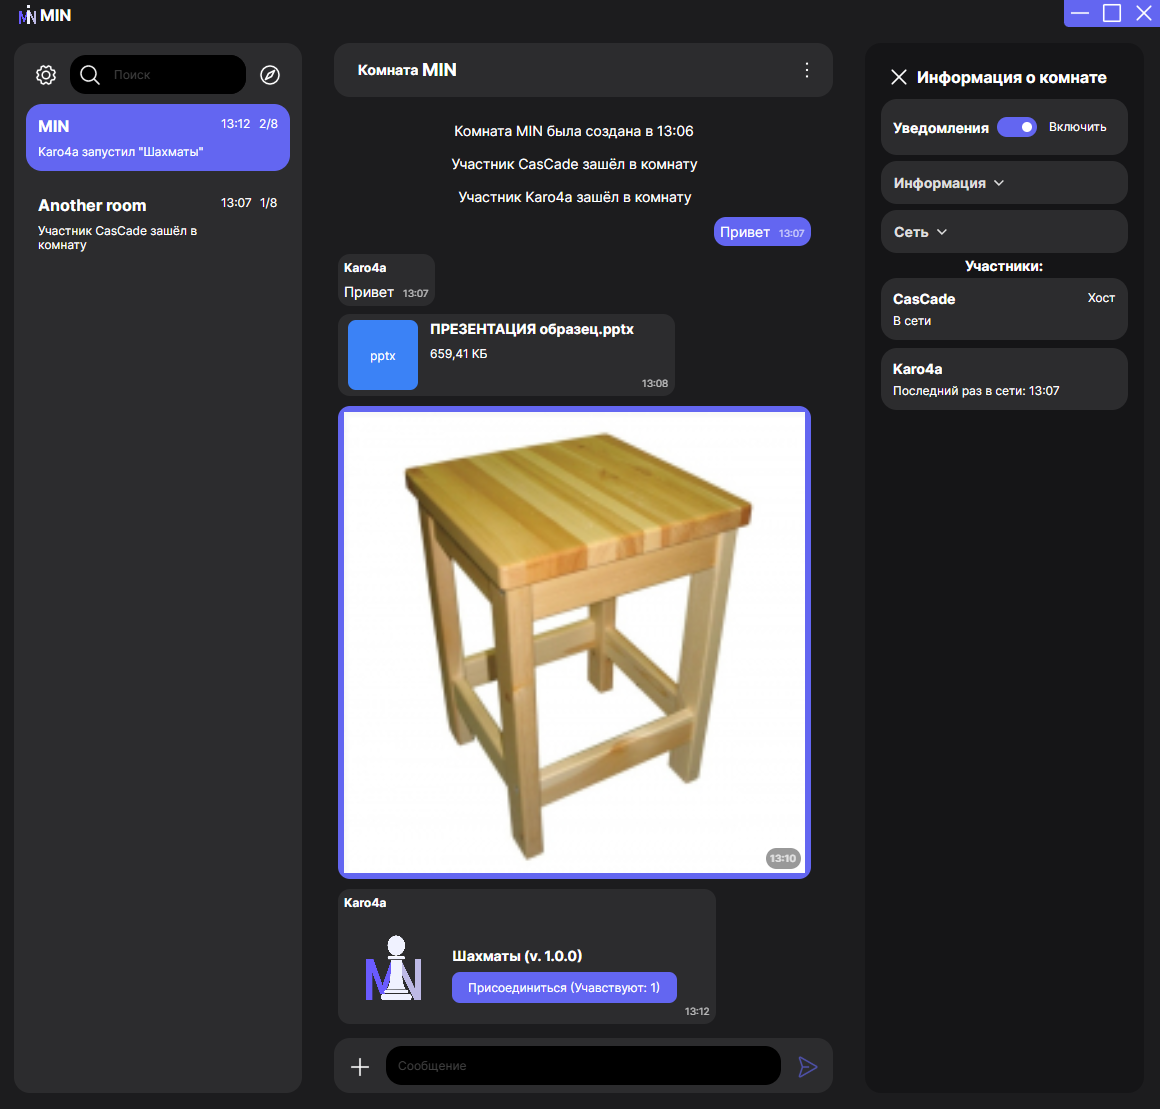
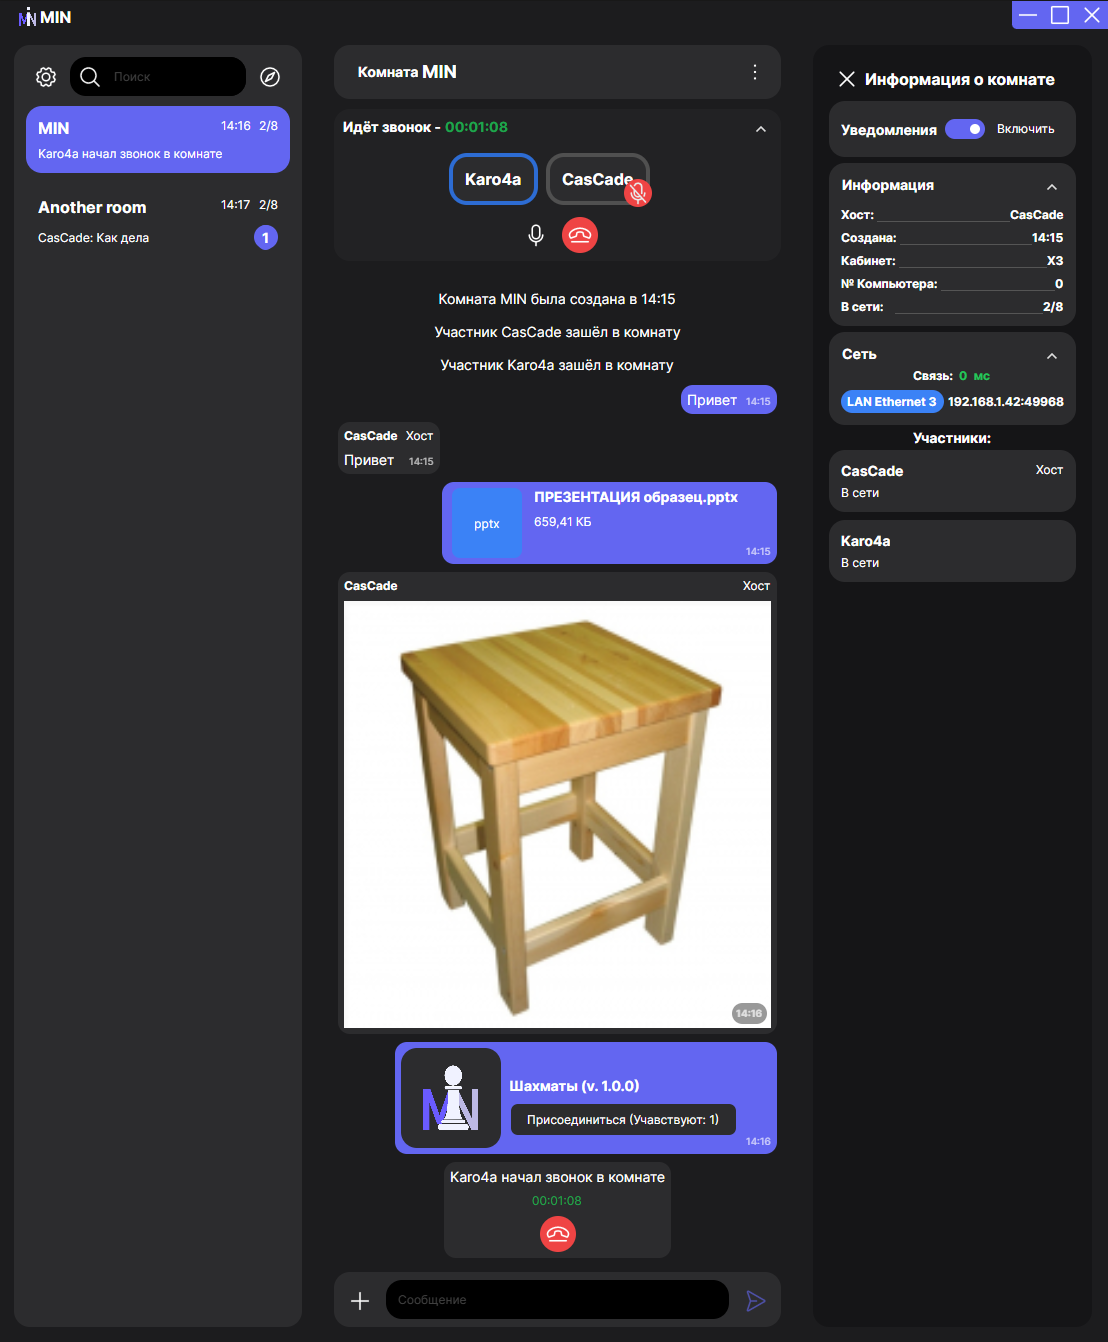
readme and bug fixes

diff --git a/Infrastructure/Chat/MIN.Chat.Services/ChatVoiceService.cs b/Infrastructure/Chat/MIN.Chat.Services/ChatVoiceService.cs
@@ -3,6 +3,7 @@ using MIN.Core.Events.Contracts.Interfaces;
 using MIN.Core.Identity.Contracts.Interfaces;
 using MIN.Core.Messaging.Contracts.Interfaces;
 using MIN.Core.Services.Contracts.Interfaces.Messaging;
+using MIN.Core.Stores.Contracts.Registries.Interfaces;
 using MIN.Voice.Events;
 using MIN.Voice.Messaging;
 using MIN.Voice.Services.Contacts.Interfaces;
@@ -14,6 +15,7 @@ public sealed class ChatVoiceService : IChatVoiceService
 {
     private readonly IVoiceCallStateService voiceCallStateService;
     private readonly IMessageRouter messageRouter;
+    private readonly IRoomConnectionRegistry registry;
     private readonly IEventBus eventBus;
     private readonly IIdentityService identityService;
 
@@ -22,11 +24,13 @@ public sealed class ChatVoiceService : IChatVoiceService
     /// </summary>
     public ChatVoiceService(IVoiceCallStateService voiceCallStateService,
         IMessageRouter messageRouter,
+        IRoomConnectionRegistry registry,
         IEventBus eventBus,
         IIdentityService identityService)
     {
         this.voiceCallStateService = voiceCallStateService;
         this.messageRouter = messageRouter;
+        this.registry = registry;
         this.eventBus = eventBus;
         this.identityService = identityService;
     }
@@ -41,6 +45,12 @@ public sealed class ChatVoiceService : IChatVoiceService
         if (voiceCallContext != null && voiceCallContext.Value.RoomId != roomId)
         {
             await LeaveCallAsync(voiceCallContext.Value.RoomId, voiceCallContext.Value.SubRoomId, cancellationToken);
+
+            if (registry.IsHosting(roomId))
+            {
+                // Костыль, но я реально хз как там исправить
+                await Task.Delay(10, cancellationToken);
+            }
         }
 
         await SendAsync(new VoiceCallStartRequestMessage(), roomId, cancellationToken);
@@ -53,6 +63,12 @@ public sealed class ChatVoiceService : IChatVoiceService
         if (voiceCallContext != null && voiceCallContext.Value.RoomId != roomId)
         {
             await LeaveCallAsync(voiceCallContext.Value.RoomId, voiceCallContext.Value.SubRoomId, cancellationToken);
+
+            if (registry.IsHosting(roomId))
+            {
+                // Костыль, но я реально хз как там исправить
+                await Task.Delay(10, cancellationToken);
+            }
         }
 
         await SendAsync(new VoiceCallJoinRequestMessage()

diff --git a/Desktop/MIN.Desktop/ViewModels/Pages/ChatViewModels/ChatViewModel.Events.cs b/Desktop/MIN.Desktop/ViewModels/Pages/ChatViewModels/ChatViewModel.Events.cs
@@ -85,7 +85,9 @@ public partial class ChatViewModel : RoutableViewModelBase
     private async Task OnVoiceCallStarted(VoiceCallStartedEvent eventMessage, CancellationToken cancellationToken)
     {
         IsVoiceChatActive = true;
+        CallDuration = TimeSpan.Zero;
         callStartedAt = DateTime.Now;
+        callTimer.Start();
         activeVoiceChatSubroomId = eventMessage.Message.SubRoomId;
         IsInVoiceChat = eventMessage.Participant.Id == localParticipant.Id;
         AddToVoiceChatParticipant(eventMessage.Participant);
@@ -97,7 +99,6 @@ public partial class ChatViewModel : RoutableViewModelBase
         VoiceChatParticipants.Clear();
         IsMuted = false;
         callTimer.Stop();
-        callTimer.Tick -= OnCallTimerTick;
         activeVoiceChatSubroomId = null;
         IsInVoiceChat = false;
         IsVoiceChatActive = false;
@@ -108,6 +109,10 @@ public partial class ChatViewModel : RoutableViewModelBase
         VoiceChatParticipants.Clear();
         callStartedAt = eventMessage.StartedAt;
         IsVoiceChatActive = eventMessage.ActiveSubRoomId != null;
+        if (IsVoiceChatActive)
+        {
+            callTimer.Start();
+        }
         activeVoiceChatSubroomId = eventMessage.ActiveSubRoomId;
         foreach (var participant in eventMessage.CallParticipants)
         {

diff --git a/Desktop/MIN.Desktop/ViewModels/Pages/SettingsSideBarViewModel.cs b/Desktop/MIN.Desktop/ViewModels/Pages/SettingsSideBarViewModel.cs
@@ -14,6 +14,7 @@ using MIN.Common.Core.Extensions;
 using MIN.Desktop.Contracts.Constants;
 using MIN.Desktop.Contracts.Enums;
 using MIN.Desktop.Contracts.Interfaces;
+using MIN.Desktop.Infrastructure.Services;
 using MIN.Desktop.Infrastructure.Validators;
 using MIN.Desktop.ViewModels.Base;
 using MIN.Desktop.ViewModels.Modals;
@@ -190,13 +191,18 @@ public partial class SettingsSideBarViewModel : ValidatingRoutableViewModelBase
     {
         featureCollection.Helper.AppDataProvider.ClearFolder("cryptography");
         featureCollection.Helper.AppDataProvider.ClearFolder("network");
+        InAppNotifier.Success("Кэш был успешно очищен");
     }
 
     /// <summary>
     /// Отсканировать папку с сессиями
     /// </summary>
     [RelayCommand]
-    public async Task ScanSessionsAsync() => await featureCollection.Chat.ChatSessionService.ScanDownloadedSessions(appCts.Token);
+    public async Task ScanSessionsAsync()
+    {
+        await featureCollection.Chat.ChatSessionService.ScanDownloadedSessions(appCts.Token);
+        InAppNotifier.Info($"Найдено установленных активностей: {featureCollection.Sessions.SessionScanner.DownloadedSessions.Count}");
+    }
 
     private void FillControls()
     {

diff --git a/Infrastructure/Discovery/Transport/MIN.Discovery.Transport.UdpBroadcast/Helpers/UdpBroadcastIpHelper.cs b/Infrastructure/Discovery/Transport/MIN.Discovery.Transport.UdpBroadcast/Helpers/UdpBroadcastIpHelper.cs
@@ -69,12 +69,10 @@ internal class UdpBroadcastIpHelper : IDisposable
 
             if (props.GatewayAddresses.Count > 0)
             {
-                Console.WriteLine($"Главный адаптер: {ni.Description}");
                 foreach (var ip in props.UnicastAddresses)
                 {
                     if (ip.Address.AddressFamily == System.Net.Sockets.AddressFamily.InterNetwork)
                     {
-                        Console.WriteLine($"Его IP: {ip.Address}");
                         var ipAddr = BitConverter.ToUInt32(ip.Address.GetAddressBytes(), 0);
                         var mask = BitConverter.ToUInt32(ip.IPv4Mask.GetAddressBytes(), 0);
                         var broadcast = ipAddr | ~mask;

diff --git a/Infrastructure/Voice/MIN.Voice.Services/VoiceDataTransmitter.cs b/Infrastructure/Voice/MIN.Voice.Services/VoiceDataTransmitter.cs
@@ -91,10 +91,10 @@ public class VoiceDataTransmitter : IVoiceDataTransmitter
 
         audioCaptureService.FrameCaptured -= OnFrameCaptured;
 
-        captureQueue.Writer.TryComplete();
-        queue.Writer.TryComplete();
         sendCts?.Cancel();
         sendCts = null;
+        captureQueue.Writer.TryComplete();
+        queue.Writer.TryComplete();
         sendTask = null;
         processTask = null;
 

diff --git a/Desktop/MIN.Desktop/ViewModels/Pages/ChatViewModels/ChatViewModel.Events.UI.cs b/Desktop/MIN.Desktop/ViewModels/Pages/ChatViewModels/ChatViewModel.Events.UI.cs
@@ -124,7 +124,6 @@ public partial class ChatViewModel : RoutableViewModelBase
     {
         typingTimer.Elapsed += (s, e) => OnTypingTimerStop();
         callTimer.Tick += OnCallTimerTick;
-        callTimer.Start();
     }
 
     private void OnTypingTimerStop()

diff --git a/README.md b/README.md
@@ -1,8 +1,8 @@
-# MIN - Local Messenger
+# MIN - Distributed Messenger
 
 ![Logo](https://raw.githubusercontent.com/MIN-Corp/MIN/main/Desktop/MIN.Desktop/Assets/Images/logoImage.png)
 
-> **Secure local messenger with end-to-end encryption for local network**
+> **Secure distributed messenger with end-to-end encryption**
 
 [![Stars](https://img.shields.io/github/stars/MIN-Corp/MIN?style=flat-square&logo=github)](https://github.com/MIN-Corp/MIN/stargazers)
 [![Forks](https://img.shields.io/github/forks/MIN-Corp/MIN?style=flat-square&logo=github)](https://github.com/MIN-Corp/MIN/network/members)
@@ -44,6 +44,7 @@
 | **Text Messages** | Sending and receiving messages in real time |
 | **Rooms** | Creating and joining chat rooms |
 | **Multiplayer Sessions** | Download and run game sessions from other resources |
+| **Voice calls** | Start voice calls in room with all participants in it |
 | **Desktop UI** | Intuitive interface using Avalonia |
 
 ---
@@ -57,6 +58,7 @@ MIN provides a modern interface for:
 | **Rooms** | Creating and managing chat rooms |
 | **Chat** | Real-time communication |
 | **Files** | Transfer with progress display |
+| **Voice calls** | Talk with your friends using room voice calls |
 | **Participants** | Online/offline statuses |
 
 ![Screen](https://raw.githubusercontent.com/MIN-Corp/MIN/main/Desktop/MIN.Desktop/Assets/Images/screen.png)
@@ -86,6 +88,7 @@ flowchart TB
         D["Discovery Services<br>UDP Broadcast Discovery"]
         E["FileTransfer Services<br>Streaming transfer"]
         F["Session Services<br>Multiplayer sessions"]
+        V["Voice Services<br>Voice calls and voice managment"]
     end
     
     subgraph CORE["Core Layer"]
@@ -103,7 +106,7 @@ flowchart TB
     end
     
     class A highlight;
-    class B,C,D,E,F,G,H,I,J,K,L,M,N,O,P component
+    class B,C,D,E,F,V,G,H,I,J,K,L,M,N,O,P component
     class UI uiLayer;
     class INF infraLayer;
     class CORE coreLayer
@@ -139,6 +142,7 @@ flowchart TB
 | `MIN.Discovery` | Room discovery via UDP Broadcast |
 | `MIN.FileTransfer` | File transfer |
 | `MIN.Sessions` | Multiplayer session management |
+| `MIN.Voice` | Voice calls |
 
 #### Desktop (UI)
 | Module | Purpose |
@@ -165,6 +169,8 @@ flowchart TB
 | Security | Microsoft.AspNetCore.DataProtection | Cross-Platform file protection |
 | Transport | TCP / UDP | Network communication |
 | UPnP | Open.Nat | Port forwarding for external connections |
+| Voice calls | OpenAL | Cross-Platform voice recording and playback |
+| Noise reduction | Onnx | Reducing background noise |
 | Modularity | MIN.Common.Mvc | Custom module/plugin system |
 | Style | .editorconfig | Unified code style |
 
@@ -180,6 +186,7 @@ flowchart TB
 - [.NET SDK 8.0](https://dotnet.microsoft.com/download/dotnet/8.0) or higher
 - Windows 10/11
 - Local network (for room discovery)
+- Virutal networks (Radmin, Hamachi) (if you want to connect outside local network without UPnP)
 
 ### Quick Start
 
@@ -230,22 +237,23 @@ flowchart TB
             R["Discovery/"]
             S["FileTransfer/"]
             T["Sessions/"]
+            U["Voice/"]
         end
         subgraph DESK["Desktop/"]
-            U["MIN.Desktop/"]
-            V["Views/"]
-            W["Components/"]
-            X["Resources/"]
+            V["MIN.Desktop/"]
+            W["Views/"]
+            X["Components/"]
+            Y["Resources/"]
         end
-        Y["Common/"]
-        Z["Helpers/"]
-        AA["DI/"]
+        Z["Common/"]
+        AA["Helpers/"]
+        AB["DI/"]
     end
     
     class CORE coreFolder
     class INF infraFolder
     class DESK deskFolder
-    class G,H,I,J,K,L,M,N,O,P,DI,Q,R,S,T,U,V,W,X,Y,Z,AA file
+    class G,H,I,J,K,L,M,N,O,P,DI,Q,R,S,T,U,V,W,X,Y,Z,AA,AB file
 ```
 
 > [!NOTE]
@@ -267,7 +275,7 @@ flowchart LR
     classDef recipient fill:#dbeafe,stroke:#3b82f6,stroke-width:3px,color:#1e40af
     
     A["Sender"] -->|"Encryption"| B["Encrypted Message"]
-    B -->|"Local Network"| C["Recipient"]
+    B -->|"Network"| C["Recipient"]
     
     class A sender;
     class B encrypted;
@@ -432,7 +440,7 @@ To use direct connection:
 > [!TIP]
 > **Made with love by CasCade team**
 
-*MIN — Local messenger for your network*
+*MIN — Distributed messenger*
 
 ---
 
